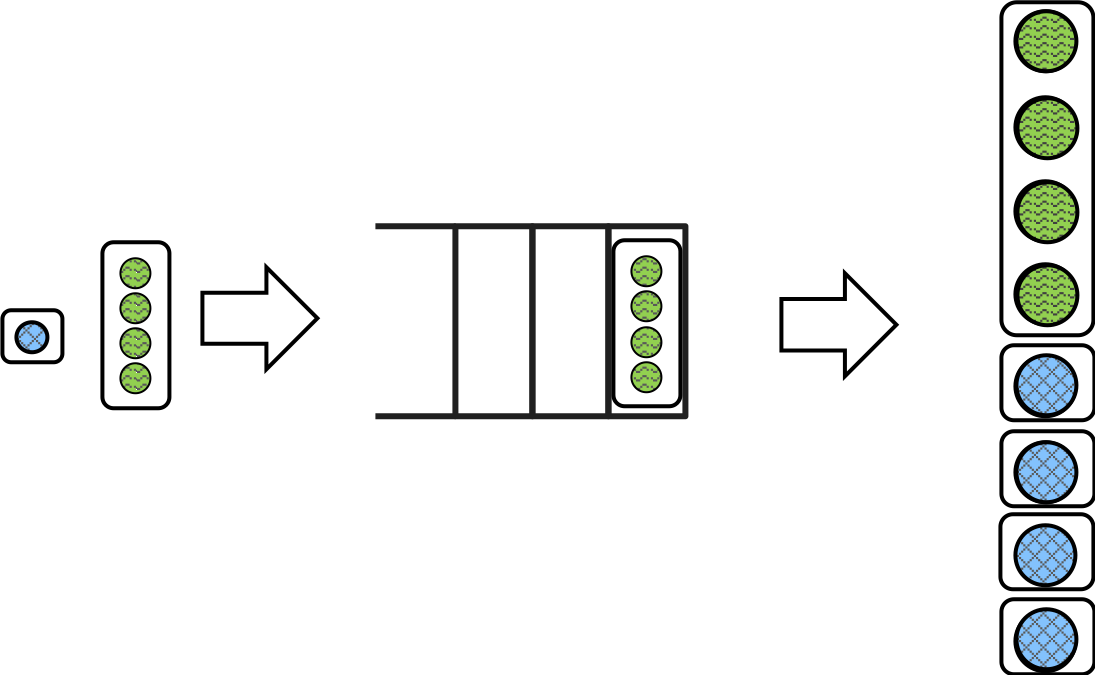
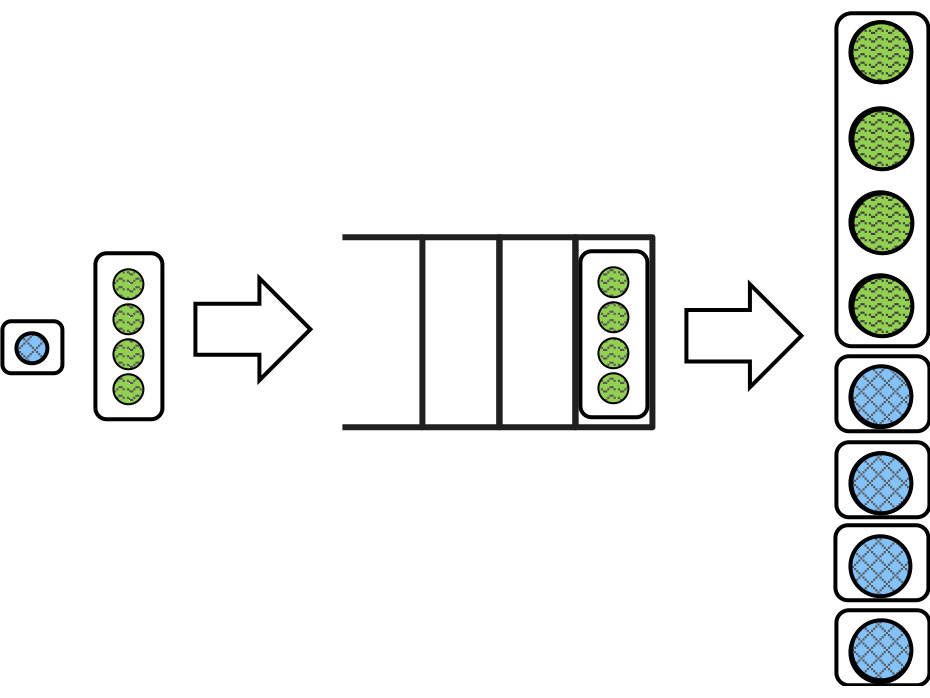
Add award and blog tab; minor tunings

Changed region(s): [[0.343, 0.0, 1.0, 1.0], [0.0, 0.3422, 0.343, 0.6222]]

diff --git a/index.html b/index.html
@@ -11,6 +11,8 @@
     <div class="topbar-inner">
       <a href="index.html" class="active">Home</a>
       <a href="publications.html">Publications</a>
+      <a href="awards.html">Awards</a>
+      <a href="https://www.cs.cmu.edu/~csd-phd-blog/2026/restless-bandits/" target="_blank" rel="noopener">Blog</a>
     </div>
   </nav>
 
@@ -19,7 +21,16 @@
     <p class="subtitle">Ph.D. student, Computer Science Department, Carnegie Mellon University</p>
 
     <div class="intro">
-      <img class="photo" src="assets/img/my_photo_cmu.jpeg" alt="Yige Hong">
+      <div class="intro-left">
+        <img class="photo" src="assets/img/my_photo_cmu.jpeg" alt="Yige Hong">
+        <ul class="links">
+          <li><a href="assets/pdf/Yige_Hong_CV.pdf">CV</a> <span class="note">(updated Dec 2025)</span></li>
+          <li><a href="https://scholar.google.com/citations?user=D-5fj0kAAAAJ&hl=en">Google Scholar</a></li>
+          <li><a href="https://github.com/yigehong">GitHub</a></li>
+          <li><a href="https://dblp.org/pid/301/8925.html">DBLP</a></li>
+          <li><a href="https://www.linkedin.com/in/yige-hong-0491a0254/">LinkedIn</a></li>
+        </ul>
+      </div>
       <div class="bio">
         <p>
           I'm a sixth-year Ph.D. student in the Computer Science Department of
@@ -35,6 +46,15 @@
           policies with provable guarantees.
         </p>
         <p>
+          I will soon join the H. Milton Stewart School of Industrial and Systems
+          Engineering (ISyE) at Georgia Tech as the Ronald J. and Carol T. Beerman
+          Postdoctoral Fellow, working with
+          <a href="https://sites.google.com/site/debankurm/home">Debankur Mukherjee</a>
+          and <a href="https://sites.google.com/site/sivatheja/">Siva Theja Maguluri</a>.
+          In Fall 2027, I will join the School of Science and Engineering
+          at CUHK-Shenzhen as a faculty member.
+        </p>
+        <p>
           Prior to starting my Ph.D., I was an undergraduate student at the
           Chinese University of Hong Kong, Shenzhen (CUHKSZ), where I graduated
           from the mathematics major with a Bachelor of Science degree.
@@ -47,28 +67,20 @@
           <span class="label">Email:</span>
           hongyige98 <span class="note">[at]</span> gmail <span class="note">[dot]</span> com
         </p>
-        <p class="links">
-          <a href="assets/pdf/Yige_Hong_CV.pdf">CV</a>
-          <span class="sep">/</span>
-          <a href="https://scholar.google.com/citations?user=D-5fj0kAAAAJ&hl=en">Google&nbsp;Scholar</a>
-          <span class="sep">/</span>
-          <a href="https://github.com/yigehong">GitHub</a>
-          <span class="sep">/</span>
-          <a href="https://dblp.org/pid/301/8925.html">DBLP</a>
-          <span class="sep">/</span>
-          <a href="https://www.linkedin.com/in/yige-hong-0491a0254/">LinkedIn</a>
-        </p>
       </div>
     </div>
 
     <div class="callout">
-      I will join the School of Science and Engineering at CUHK-Shenzhen in Fall 2027.
-      I am looking for motivated students to join my group.
+      In Fall 2027, I will join the School of Science and Engineering at
+      CUHK-Shenzhen, where I am looking for motivated students to join my group.
+      Feel free to contact me!
     </div>
 
     <h2>Selected publications</h2>
     <div id="selected-pubs"></div>
     <p class="note">
+      *co-first-author, #undergraduate student jointly mentored with my Ph.D. advisor.
+      <br>
       RBs = restless bandits; MDPs = Markov decision processes; WCMDPs = weakly-coupled MDPs.
       &nbsp; See the <a href="publications.html">full list</a> of publications.
     </p>

diff --git a/awards.html b/awards.html
@@ -1,0 +1,61 @@
+<!doctype html>
+<html lang="en">
+<head>
+  <meta charset="utf-8">
+  <meta name="viewport" content="width=device-width, initial-scale=1">
+  <title>Awards &middot; Yige Hong</title>
+  <link rel="stylesheet" href="style.css">
+</head>
+<body>
+  <nav class="topbar">
+    <div class="topbar-inner">
+      <a href="index.html">Home</a>
+      <a href="publications.html">Publications</a>
+      <a href="awards.html" class="active">Awards</a>
+      <a href="https://www.cs.cmu.edu/~csd-phd-blog/2026/restless-bandits/" target="_blank" rel="noopener">Blog</a>
+    </div>
+  </nav>
+
+  <main>
+    <h1>Awards &amp; Honors</h1>
+    <ul class="award-list">
+      <li>
+        <span class="award-name">Ronald J. and Carol T. Beerman Postdoctoral Fellowship, H. Milton Stewart School of Industrial and Systems Engineering, Georgia Tech</span>
+        <span class="award-year">2026</span>
+      </li>
+      <li>
+        <span class="award-name">Outstanding Student Poster Award, Stochastic Networks</span>
+        <span class="award-year">2026</span>
+      </li>
+      <li>
+        <span class="award-name">ICML Spotlight (top 2.2% of submissions) <span class="award-paper">&mdash; Demystifying Entropy Control in LLM RL Training</span></span>
+        <span class="award-year">2026</span>
+      </li>
+      <li>
+        <span class="award-name">Young European Queueing Theorists (YEQT) Workshop, Invited Speaker</span>
+        <span class="award-year">2025</span>
+      </li>
+      <li>
+        <span class="award-name">NeurIPS Spotlight (top 3.18% of submissions) <span class="award-paper">&mdash; Projection-Based Lyapunov Method for Fully Heterogeneous Weakly-Coupled MDPs</span></span>
+        <span class="award-year">2025</span>
+      </li>
+      <li>
+        <span class="award-name">IFIP Performance 2023 Best Paper Award <span class="award-paper">&mdash; Performance of the Gittins Policy in the G/G/1 and G/G/k, With and Without Setup Times</span></span>
+        <span class="award-year">2023</span>
+      </li>
+      <li>
+        <span class="award-name">NeurIPS Spotlight (top 3.06% of submissions) <span class="award-paper">&mdash; Restless Bandits with Average Reward: Breaking the Uniform Global Attractor Assumption</span></span>
+        <span class="award-year">2023</span>
+      </li>
+      <li>
+        <span class="award-name">ACM SIGMETRICS 2021 Student Research Competition, Second Place</span>
+        <span class="award-year">2021</span>
+      </li>
+    </ul>
+  </main>
+
+  <footer>
+    &copy; Yige Hong
+  </footer>
+</body>
+</html>

diff --git a/style.css b/style.css
@@ -70,10 +70,11 @@ h2 {
 
 /* ---- Home intro ---- */
 .intro { display: flex; gap: 28px; align-items: flex-start; flex-wrap: wrap; }
+.intro-left { width: 180px; flex-shrink: 0; }
 .intro .photo {
-  width: 180px;
+  width: 100%;
   border-radius: 6px;
-  flex-shrink: 0;
+  display: block;
 }
 .intro .bio { flex: 1; min-width: 260px; }
 .intro .bio p:first-child { margin-top: 0; }
@@ -81,8 +82,14 @@ h2 {
 .contact { margin-top: 8px; margin-bottom: 4px; }
 .contact .label { font-weight: 600; }
 
-.links { margin-top: 0; font-weight: 500; }
-.links .sep { color: var(--border); margin: 0 6px; }
+/* Link list stacked under the photo. */
+.links {
+  list-style: none;
+  padding: 0;
+  margin: 14px 0 0;
+  font-weight: 500;
+}
+.links li { padding: 3px 0; line-height: 1.35; }
 
 .callout {
   margin-top: 28px;
@@ -306,6 +313,8 @@ h2 {
 .link-conference:hover { background: #33517e; }
 .link-resource   { background: #f0f0f2; color: #555; }     /* slides/poster/... */
 .link-resource:hover { background: #555; }
+.link-blog       { background: #f0ebf9; color: #6d4c9f; }  /* blog post */
+.link-blog:hover { background: #6d4c9f; }
 
 /* Cite: outlined, to set the special action apart from the
    filled resource/venue pills. */
@@ -344,6 +353,25 @@ h2 {
 }
 .note { color: var(--muted); font-size: 0.9rem; }
 
+/* ---- Awards page ---- */
+.award-list { list-style: none; padding: 0; margin: 0; }
+.award-list li {
+  display: flex;
+  justify-content: space-between;
+  gap: 20px;
+  align-items: baseline;
+  padding: 14px 0;
+  border-bottom: 1px solid var(--border);
+}
+.award-list li:last-child { border-bottom: none; }
+.award-name { font-weight: 500; }
+.award-paper { font-weight: 400; font-style: italic; color: var(--muted); }
+.award-year {
+  flex-shrink: 0;
+  color: var(--muted);
+  font-variant-numeric: tabular-nums;
+}
+
 footer {
   max-width: var(--maxw);
   margin: 0 auto;
@@ -355,7 +383,7 @@ footer {
 
 @media (max-width: 520px) {
   body { font-size: 16px; }
-  .intro .photo { width: 140px; }
+  .intro-left { width: 140px; }
   .area-cards { grid-template-columns: 1fr; }
   .pub-list li.has-thumb { flex-direction: column; }
   .pub-thumb { width: 100%; max-width: 220px; }

diff --git a/data/publications.js b/data/publications.js
@@ -111,7 +111,7 @@ window.PUBLICATIONS = [
       { label: "poster", href: "assets/pdf/NeurIPS25_poster_v2.pdf", kind: "resource" },
       { label: "video", href: "https://neurips.cc/virtual/2025/loc/san-diego/poster/117242", kind: "resource" }
     ],
-    award: "Spotlight at NeurIPS (3.18% of submitted papers); Outstanding Student Poster Award at Stochastic Networks 2026",
+    award: "Spotlight at NeurIPS (3.18% of submissions); Outstanding Student Poster Award at Stochastic Networks 2026",
     bibtex: [
       "@inproceedings{ZhaHonWan_25_proj,",
       "  author    = {Zhang, Xiangcheng and Hong, Yige and Wang, Weina},",
@@ -161,7 +161,8 @@ window.PUBLICATIONS = [
     links: [
       { label: "MOR", href: "https://pubsonline.informs.org/doi/full/10.1287/moor.2024.0678", kind: "journal" },
       { label: "arxiv", href: "https://arxiv.org/abs/2402.05689", kind: "arxiv" },
-      { label: "slides", href: "assets/slides/informs2024v4-online.pdf", kind: "resource" }
+      { label: "slides", href: "assets/slides/informs2024v4-online.pdf", kind: "resource" },
+      { label: "blog", href: "https://www.cs.cmu.edu/~csd-phd-blog/2026/restless-bandits/", kind: "blog" }
     ],
     bibtex: [
       "@article{HonXieCheWan_24_moor,",
@@ -215,7 +216,7 @@ window.PUBLICATIONS = [
       { label: "video", href: "https://nips.cc/virtual/2023/poster/71907", kind: "resource" },
       { label: "poster", href: "assets/img/poster-neurips23-break-ugap-v2-final.png", kind: "resource" }
     ],
-    award: "Spotlight (3.06% of submitted papers)",
+    award: "Spotlight (3.06% of submissions)",
     bibtex: [
       "@inproceedings{HonXieCheWan_23_ugap,",
       "  author    = {Hong, Yige and Xie, Qiaomin and Chen, Yudong and Wang, Weina},",
@@ -285,7 +286,7 @@ window.PUBLICATIONS = [
     id: "multiserver-jobs",
     title: "Sharp Waiting-Time Bounds for Multiserver Jobs",
     shortTitle: "Sharp waiting-time bounds for multiserver jobs",
-    thumb: "assets/img/thumbs/multiserver-jobs.png",
+    thumb: "assets/img/thumbs/multiserver-jobs.png?v=2",
     authors: '<b>Yige Hong</b>, Weina Wang',
     area: "Queueing theory",
     firstAppeared: "2021-09",

diff --git a/site.js b/site.js
@@ -278,7 +278,13 @@
     if (!container) return;
     var pubs = (window.SELECTED_PUBLICATIONS || [])
       .map(byId)
-      .filter(Boolean);
+      .filter(Boolean)
+      .sort(function (a, b) {
+        // by first-appearance date, newest first
+        if (a.firstAppeared < b.firstAppeared) return 1;
+        if (a.firstAppeared > b.firstAppeared) return -1;
+        return 0;
+      });
     container.innerHTML = listHtml(pubs);
   };
 

diff --git a/publications.html b/publications.html
@@ -11,6 +11,8 @@
     <div class="topbar-inner">
       <a href="index.html">Home</a>
       <a href="publications.html" class="active">Publications</a>
+      <a href="awards.html">Awards</a>
+      <a href="https://www.cs.cmu.edu/~csd-phd-blog/2026/restless-bandits/" target="_blank" rel="noopener">Blog</a>
     </div>
   </nav>
 
